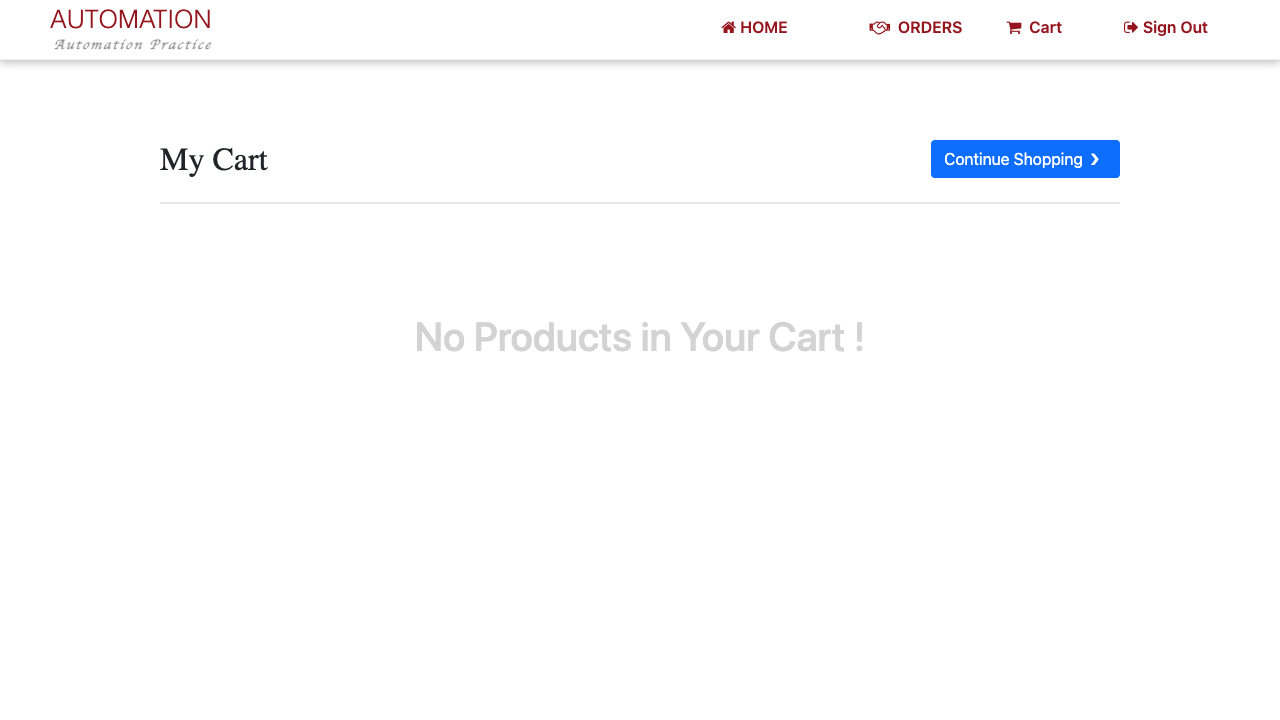
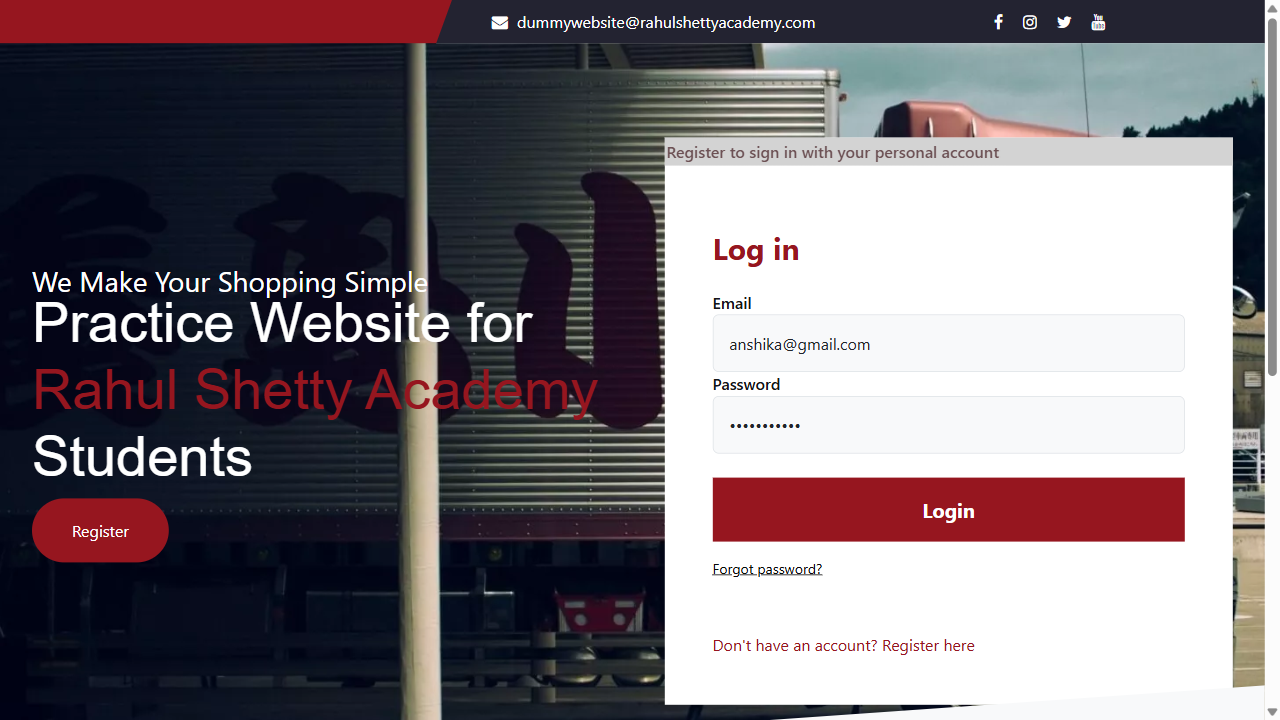
Fix Cucumber cart scenario execution

diff --git a/features/support/hooks.js b/features/support/hooks.js
@@ -3,11 +3,11 @@ const playwright = require('@playwright/test');
 Before(async function () {
     // This hook will be executed before all scenarios
     console.log("i am first");
-    const browser = await playwright.chromium.launch({
+    this.browser = await playwright.chromium.launch({
       headless: false,
   });
-  const context = await browser.newContext();
-    this.page =  await context.newPage();
+  this.context = await this.browser.newContext();
+    this.page = await this.context.newPage();
   });
 
   AfterStep( async function ({result}) {
@@ -21,10 +21,9 @@ Before(async function () {
     }
   });
   After(async function () {
-    // Assuming this.driver is a selenium webdriver
     console.log("i am last");
-    
-    
-  });
+    await this.context?.close();
+    await this.browser?.close();
+    });
 
   

diff --git a/tests/demo1.ts b/tests/demo1.ts
@@ -10,7 +10,7 @@ let numberArry : number[] = [1,2,3];
 
 let data : any = "this could be anything";
 data =42;
-function add(a:number,b:number): number
+function add(a:number,b:number): number  // first number is a variable type, second is b variable type and third one is return type of the whole function
 {
     return a+b;
 }
@@ -18,6 +18,7 @@ function add(a:number,b:number): number
 add(3,4);
 
 let user: {name:string,age:number,location:string} = { name: "Bob",age:34,location:"delhi"};
+// use is an object hence we have added these details :  user: {name:string,age:number,location:string} 
 user.location = "hyderabad";
 
 

diff --git a/features/step_definitions/steps.js b/features/step_definitions/steps.js
@@ -47,9 +47,10 @@ When("I run {string}", function (string) {
     await this.cartPage.VerifyProductIsDisplayed(productName);
   });
 
-  When('Add {string} to Cart', async function (productName) {
+  When('Add {string} to Cart', { timeout: 30 * 1000 }, async function (productName) {
     // Write code here that turns the phrase above into concrete actions
      this.dashboardPage = poManager.getDashboardPage();
+     await this.page.locator('.card-body').first().waitFor({ state: 'visible' });
      await this.dashboardPage.searchProductAddCart(productName);
      await this.dashboardPage.navigateToCart();
   });

diff --git a/tests/NetworkTest.spec.js b/tests/NetworkTest.spec.js
@@ -26,9 +26,9 @@ test('@SP Place the order', async ({ page }) => {
     async route => {
       const response = await page.request.fetch(route.request());
       let body = JSON.stringify(fakePayLoadOrders);
-      route.fulfill(
+      route.fulfill(  // here we are sending the responce a fake responce.
         {
-          response,
+          response,   // if we will not send the response an d body then it will send the actual page only.
           body, 
 
         });
